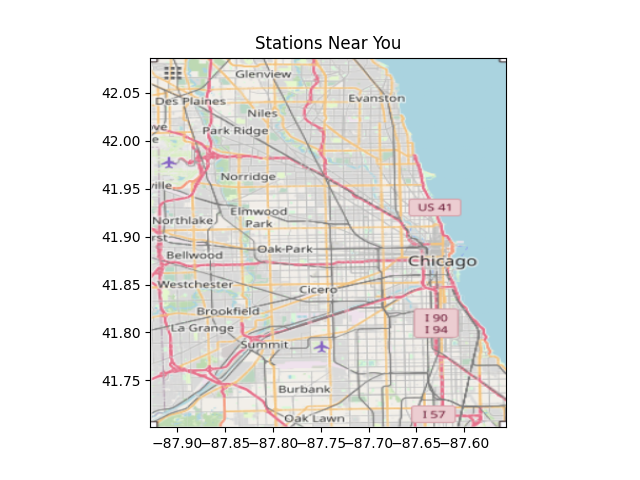
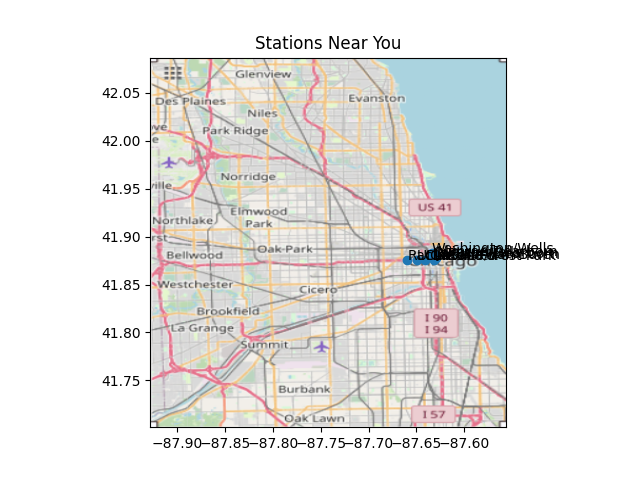
fix plot x y reversal

Changed region(s): [[0.625, 0.5, 0.875, 0.5625]]

diff --git a/main.py b/main.py
@@ -356,18 +356,18 @@ def command_9(db: sqlite3.Connection):
     # create plot
     if input("\nPlot? (y/n) ") == "y":
         image = plt.imread("chicago.png")
-        xydims = [-87.9277, -87.5569, 41.7012, 42.0868] # area covered by map
+        xydims = (-87.9277, -87.5569, 41.7012, 42.0868) # area covered by map
         plt.imshow(image, extent=xydims)
         plt.title("Stations Near You")
         plt.xlim(xydims[:2])
         plt.ylim(xydims[-2:])
     
         # plot points
-        _, x_list, y_list = zip(*stations)
-        plt.plot(x_list, y_list)
+        _, y_list, x_list = zip(*stations)
+        plt.plot(x_list, y_list, 'o')
 
-        # plot names
-        for name, x, y in stations:
+        # labels
+        for name, y, x in stations:
             plt.annotate(name, (x, y))
 
         plt.savefig("command_9.png")
